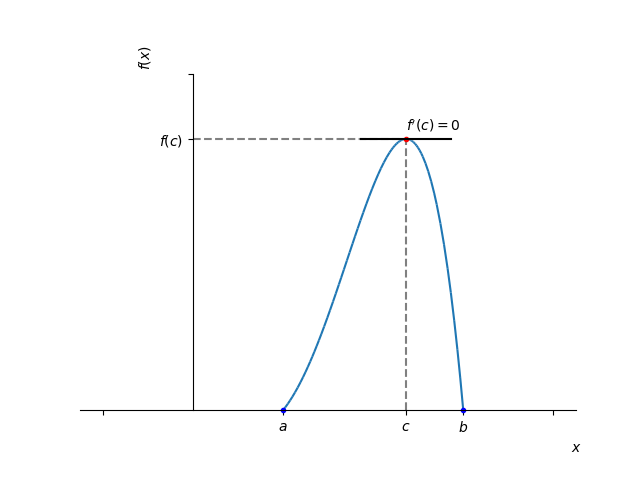
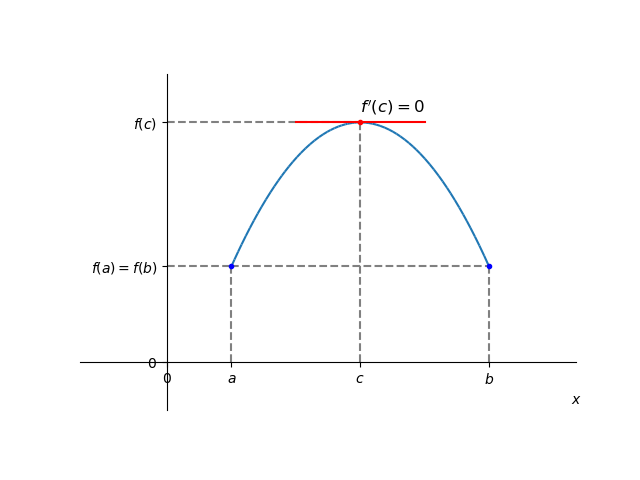
+: exercícios sobre extremos de funções; *: ajustes

diff --git a/src/CalculoI/cap_apderiv/cap_apderiv.tex b/src/CalculoI/cap_apderiv/cap_apderiv.tex
@@ -225,18 +225,18 @@ Esta é a versão da regra de L'Hôpital para indeterminações do tipo $0/0$. S
 
 \section{Extremos de funções}\label{cap_apderiv_sec_extfun}
 
-Seja $f$ uma função com domínio $D$. Dizemos que $f$ tem o valor \emph{máximo absoluto} $f(a)$ no ponto $x=a$ quando
+Seja $f$ uma função com domínio $D$. Dizemos que $f$ tem o valor \emph{máximo global}\footnote{Também chamado de máximo absoluto.} $f(a)$ no ponto $x=a$ quando
 \begin{equation}
   f(x) < f(a),
 \end{equation}
-para todo $x\in D\setminus\{a\}$. Analogamente, dizemos que $f$ tem o valor \emph{mínimo absoluto} $f(b)$ no ponto $x=b$ quando
+para todo $x\in D\setminus\{a\}$. Analogamente, dizemos que $f$ tem o valor \emph{mínimo global}\footnote{Também chamado de mínimo absoluto.} $f(b)$ no ponto $x=b$ quando
 \begin{equation}
   f(x) > f(b),
 \end{equation}
-para todo $x\in D\setminus\{b\}$. Em tais pontos, dizemos que a função têm seus valores \emph{extremos absolutos}.
+para todo $x\in D\setminus\{b\}$. Em tais pontos, dizemos que a função têm seus valores \emph{extremos globais} (ou extremos absolutos).
 
 \begin{ex}\label{ex:vmaxminabs}
-  A função $f(x) = x^2$ tem valor mínimo absoluto no ponto $x=0$ e não assume valor máximo absoluto. A função $g(x) = -x^2$ tem valor máximo absoluto no ponto $x=0$ e não assume valor mínimo absoluto. A função $h(x)=x^3$ não assume valores mínimo e máximo absolutos. Veja a Figura \ref{fig:ex_vmaxminabs}.
+  A função $f(x) = x^2$ tem valor mínimo global no ponto $x=0$ e não assume valor máximo global. A função $g(x) = -x^2$ tem valor máximo global no ponto $x=0$ e não assume valor mínimo global. A função $h(x)=x^3$ não assume valores mínimo e máximo globais. Veja a Figura \ref{fig:ex_vmaxminabs}.
 
   \begin{figure}[H]
     \centering
@@ -249,20 +249,20 @@ para todo $x\in D\setminus\{b\}$. Em tais pontos, dizemos que a função têm se
 \end{ex}
 
 \begin{teo}\normalfont{(Teorema do valor extremo)}
-  Se $f$ é uma função contínua em um intervalo fechado $[a, b]$, então $f$ assume tanto um valor máximo como um valor mínimo absoluto em $[a, b]$.
+  Se $f$ é uma função contínua em um intervalo fechado $[a, b]$, então $f$ assume tanto um valor máximo como um valor mínimo global em $[a, b]$.
 \end{teo}
 
 \begin{ex}\label{ex:fcont}
   Vejamos os seguintes casos:
   \begin{enumerate}[a)]
-  \item  A função $\pmb{f(x) = (x-1)^2+1}$ é contínua no intervalo fechado $\displaystyle \left[0, \frac{3}{2}\right]$. Assume valor mínimo absoluto $1$ no ponto $x=1$. Ainda, assume valor máximo absoluto igual a $2$ no ponto $x=0$. Veja Figura \ref{fig:ex_fcont_f}.
+  \item  A função $\pmb{f(x) = (x-1)^2+1}$ é contínua no intervalo fechado $\displaystyle \left[0, \frac{3}{2}\right]$. Assume valor mínimo global $1$ no ponto $x=1$. Ainda, assume valor máximo global igual a $2$ no ponto $x=0$. Veja Figura \ref{fig:ex_fcont_f}.
   \begin{figure}[H]
     \centering
     \includegraphics[width=0.7\textwidth]{./cap_apderiv/dados/fig_ex_fcont/fig_f}
     \caption{Esboço do gráfico de $f(x) = (x-1)^2+1$ no intervalo $\displaystyle\left[0, \frac{3}{2}\right]$. Veja o Exemplo \ref{ex:fcont} a).}
     \label{fig:ex_fcont_f}
   \end{figure}
-\item A função $\pmb{g(x) = \ln x}$ é contínua no intervalo $(0, e]$. Neste intervalo, assume valor máximo absoluto no ponto $x=e$, mas não assume valor mínimo absoluto. Veja Figura \ref{fig:ex_fcont_g}.
+\item A função $\pmb{g(x) = \ln x}$ é contínua no intervalo $(0, e]$. Neste intervalo, assume valor máximo global no ponto $x=e$, mas não assume valor mínimo global. Veja Figura \ref{fig:ex_fcont_g}.
   \begin{figure}[H]
     \centering
     \includegraphics[width=0.7\textwidth]{./cap_apderiv/dados/fig_ex_fcont/fig_g}
@@ -279,7 +279,7 @@ para todo $x\in D\setminus\{b\}$. Em tais pontos, dizemos que a função têm se
       \end{array}
 \right.
 \end{equation}
-definida no intervalo $[0, 1]$ é descontínua no ponto $x=1$. Neste intervalo, assume valor mínimo absoluto no ponto $x=0$, mas não assume valor máximo absoluto. Veja a Figura \ref{fig:ex_fcont_h}.
+definida no intervalo $[0, 1]$ é descontínua no ponto $x=1$. Neste intervalo, assume valor mínimo global no ponto $x=0$, mas não assume valor máximo global. Veja a Figura \ref{fig:ex_fcont_h}.
   \begin{figure}[H]
     \centering
     \includegraphics[width=0.7\textwidth]{./cap_apderiv/dados/fig_ex_fcont/fig_h}
@@ -310,7 +310,7 @@ Uma função $f$ tem um valor \emph{máximo local} em um ponto interior $x=a$ de
     \label{fig:ex_vmaxminloc}
   \end{figure}
   
-Na Figura \ref{fig:ex_vmaxminloc} temos o esboço de seu gráfico. Por inferência, temos que $f$ tem valores máximos locais nos pontos $x=-1$ e $x=-1/2$. No ponto $x=0$ tem um valor mínimo local. Observamos que $x=-2$, $x=2$ e $x=3$ não são pontos de extremos locais desta função. No ponto $x=-2$, $f$ tem seu valor mínimo absoluto. Ainda, $f$ não tem valor máximo absoluto.
+Na Figura \ref{fig:ex_vmaxminloc} temos o esboço de seu gráfico. Por inferência, temos que $f$ tem valores máximos locais nos pontos $x=-1$ e $x=-1/2$. No ponto $x=0$ tem um valor mínimo local. Observamos que $x=-2$, $x=2$ e $x=3$ não são pontos de extremos locais desta função. No ponto $x=-2$, $f$ tem seu valor mínimo global. Ainda, $f$ não tem valor máximo global.
 \end{ex}
 
 \begin{teo}\normalfont{(Teorema da derivada para pontos extremos locais.)}
@@ -339,10 +339,10 @@ Um ponto interior do domínio de uma função $f$ onde $f'=0$ ou $f'$ não exist
 
   No ponto $x=0$, $f'(0)$ não existe e $f$ tem valor mínimo local neste ponto. No ponto, $x=-1/2$, $f'(1/2)$ não existe e $f$ tem valor máximo local neste ponto.
 
-  Nos extremos do domínio, temos que $f$ tem valor mínimo absoluto no ponto $x=-2$, mas não tem extremo absoluto no ponto $x=3$.
+  Nos extremos do domínio, temos que $f$ tem valor mínimo global no ponto $x=-2$, mas não tem extremo global no ponto $x=3$.
 \end{ex}
 
-\subsection{Exercícios resolvidos}
+\subsection*{Exercícios resolvidos}
 
 \begin{exeresol}\label{exeresol:f_diff}
   Determine os pontos extremos da função $f(x) = (x+1)^2-1$ no intervalo $[-2,1]$.
@@ -356,7 +356,7 @@ Um ponto interior do domínio de uma função $f$ onde $f'=0$ ou $f'$ não exist
 
   \begin{figure}[H]
     \centering
-    \includegraphics[width=0.5\textwidth]{./cap_apderiv/dados/fig_exeresol_f_diff/fig_exeresol_f_diff}
+    \includegraphics[width=0.7\textwidth]{./cap_apderiv/dados/fig_exeresol_f_diff/fig_exeresol_f_diff}
     \caption{Esboço do gráfico da função $f(x) = (x+1)^2-1$ discutida no Exercício Resolvido \ref{exeresol:f_diff}.}
     \label{fig:exeresol_f_diff}
   \end{figure}
@@ -368,7 +368,7 @@ Um ponto interior do domínio de uma função $f$ onde $f'=0$ ou $f'$ não exist
     $f(x)$ & 0 & -1 & 3\\\hline
   \end{tabular}
 \end{center}
-Daí, podemos concluir que $f$ tem o valor mínimo absoluto (e local) de $f(-1)=-1$ no ponto $x=-1$ e tem valor máximo absoluto de $f(1)=3$ no ponto $x=1$.
+Daí, podemos concluir que $f$ tem o valor mínimo global (e local) de $f(-1)=-1$ no ponto $x=-1$ e tem valor máximo global de $f(1)=3$ no ponto $x=1$.
 
 \ifispython
 Podemos usar o \sympy~para computar os pontos extremos e plotar a função. Por exemplo, com os seguintes comandos\footnote{Veja a Observação \ref{obs:cap_apderiv_python}.}:
@@ -394,7 +394,7 @@ Podemos usar o \sympy~para computar os pontos extremos e plotar a função. Por 
   \begin{equation}
     3x^2=0\Rightarrow x=0
   \end{equation}
-  é o único ponto crítico de $f$. Entretanto, analisando o gráfico desta função (Figura \ref{fig:exeresol_p_infl}) vemos que $f$ não tem valor extremo local neste ponto. Assim, seus pontos extremos só podem ocorrer nos extremos do domínio $[-1, 1]$. Concluímos que $f(-1)=-1$ é o valor mínimo absoluto de $f$ e $f(1)=1$ é seu valor máximo absoluto.
+  é o único ponto crítico de $f$. Entretanto, analisando o gráfico desta função (Figura \ref{fig:exeresol_p_infl}) vemos que $f$ não tem valor extremo local neste ponto. Assim, seus pontos extremos só podem ocorrer nos extremos do domínio $[-1, 1]$. Concluímos que $f(-1)=-1$ é o valor mínimo global de $f$ e $f(1)=1$ é seu valor máximo global.
 
   \begin{figure}[H]
     \centering
@@ -404,23 +404,69 @@ Podemos usar o \sympy~para computar os pontos extremos e plotar a função. Por 
   \end{figure}
 \end{resol}
 
-\subsection{Exercícios}
+\subsection*{Exercícios}
 
-\emconstrucao
+\begin{exer}
+  Considere que uma dada função $f$ tenha o seguinte esboço de gráfico:
+
+  \begin{center}
+    \includegraphics[width=0.7\textwidth]{./cap_apderiv/dados/fig_exer_extfun/fig_exer_extfun}
+  \end{center}
+
+  Determine e classifique os pontos extremos desta função.
+\end{exer}
+\begin{resp}
+  $x=-1$ ponto de mínimo global; $x=1$ ponto de máximo local; $x=2$ ponto de mínimo local; $x=\frac{5}{2}$ ponto de máximo global.
+\end{resp}
+
+\begin{exer}
+  Dada a função $f(x)=x^2-2x+3$ restrita ao intervalo $[-1,2]$, determine:
+  \begin{enumerate}[a)]
+  \item seu(s) ponto(s) crítico(s).
+  \item seu(s) ponto(s) extremo(s) e o(s) classifique.
+  \item seu(s) valor(es) extremo(s) e o(s) classifique.
+  \end{enumerate}
+\end{exer}
+\begin{resp}
+  a)~$x=1$; b)~$x=-1$ ponto de máximo global; $x=1$ ponto de mínimo local e global; c)~$f(-1)=6$ valor máximo global; $f(1)=2$ valor mínimo local e global;
+\end{resp}
+
+\begin{exer}
+  Dada a função $f(x)=-x^2+2x+1$ restrita ao intervalo $[0,3]$, determine:
+  \begin{enumerate}[a)]
+  \item seu(s) ponto(s) crítico(s).
+  \item seu(s) ponto(s) extremo(s) e o(s) classifique.
+  \item seu(s) valor(es) extremo(s) e o(s) classifique.
+  \end{enumerate}
+\end{exer}
+\begin{resp}
+  a)~$x=1$; b)~$x=1$ ponto de máximo local e global; $x=3$ ponto de mínimo global; c)~$f(1)=2$ valor máximo local e global; $f(3)=-2$ valor mínimo global;
+\end{resp}
+
+\begin{exer}
+  Dada a função $f(x)=x^{3} - 3 x^{2} + 3 x$ restrita ao intervalo $[0, \infty)$, determine:
+  \begin{enumerate}[a)]
+  \item seu(s) ponto(s) crítico(s).
+  \item seu(s) ponto(s) extremo(s) e o(s) classifique.
+  \item seu(s) valor(es) extremo(s) e o(s) classifique.
+  \end{enumerate}
+\end{exer}
+\begin{resp}
+  a)~$x=1$; b)~$x=0$ ponto de mínimo global;c)~$f(0)=0$ valor mínimo global;
+\end{resp}
 
 \begin{exer}
   Dada a função $f(x)=x^{1/3}$ restrita ao intervalo $[-1,1]$, determine:
   \begin{enumerate}[a)]
-  \item seus pontos críticos.
-  \item seus pontos extremos e os classifique.
-  \item seus valores extremos e os classifique.
+  \item seu(s) ponto(s) crítico(s).
+  \item seu(s) ponto(s) extremo(s) e o(s) classifique.
+  \item seu(s) valor(es) extremo(s) e o(s) classifique.
   \end{enumerate}
 \end{exer}
 \begin{resp}
-  a)~$x=0$; b)~$x=-1$; $x=1$; c)~$f(-1)=-1$ valor mínimo absoluto; $f(1)=1$ valor máximo absoluto;
+  a)~$x=0$; b)~$x=-1$ ponto de mínimo global; $x=1$ ponto de máximo global; c)~$f(-1)=-1$ valor mínimo global; $f(1)=1$ valor máximo global;
 \end{resp}
 
-\emconstrucao
 
 \section{Teorema do valor médio}\label{cap_apderiv_sec_valormedio}
 
@@ -569,7 +615,7 @@ Mais precisamente, seja $c$ um ponto crítico de uma função contínua $f$ e di
   Então, do teste da primeira derivada, concluímos que $x=\frac{2-\sqrt{7}}{3}$ é ponto de máximo local e que $x=\frac{2+\sqrt{7}}{3}$ é ponto de mínimo local.
 
   \ifispython
-  Podemos usar o \verb+Sympy+ para computarmos a derivada de $f$ com o comando
+  Podemos usar o \sympy~ para computarmos a derivada de $f$ com o comando\footnote{Veja a Observação \ref{obs:cap_apderiv_python}.}
 \begin{verbatim}
 fl = diff((x - 2)*(x - 1)*(x + 1))
 \end{verbatim}

diff --git a/src/CalculoI/cap_apderiv/dados/fig_teo_Rolle/main.py b/src/CalculoI/cap_apderiv/dados/fig_teo_Rolle/main.py
@@ -5,28 +5,40 @@ from sympy import *
 init_printing()
 var('x',real=True)
 
-p = plot(-0.5*(x-1)*(x-3)*x**2,(x,1,3),show=False)
-q = plot(-1,(x,-1,4),line_color='none',show=False)
-q = plot(3,(x,-1,4),line_color='none',show=False)
+a=0.5
+b=2.5
+f = -1.5*(x-a)*(x-b)+1
+c = (a+b)/2
+
+p = plot(f,(x,a,b),show=False)
+q = plot(-0.5,(x,-0.5,3),line_color='none',show=False)
+p.extend(q)
+q = plot(3,(x,-0.5,3),line_color='none',show=False)
 p.extend(q)
 p.xlabel = '$x$'
-p.ylabel = '$f(x)$'
+p.ylabel = ''
 p.save('fig_teo_Rolle.png')
 
 fig = p._backend.fig
 ax = fig.axes[0]
-ax.set_yticks([-1,2.42404,3])
-ax.set_yticklabels(['','$f(c)$',''])
-c=2.36603
-ax.set_xticks([-1,1,c,3,4])
-ax.set_xticklabels(['','$a$','$c$','$b$',''])
-ax.plot([c,c],[0,2.42404],ls='--',color='gray')
-ax.plot([0,c],[2.42404,2.42404],ls='--',color='gray')
-ax.plot([c],[2.42404],marker='o',markersize=3,color='red')
-ax.plot([1],[0],marker='o',markersize=3,color='blue')
-ax.plot([3],[0],marker='o',markersize=3,color='blue')
-ax.plot([c-0.5,c+0.5],[2.42404,2.42404],color='black')
-ax.text(c,2.5,"$f'(c)=0$")
+ax.set_xticks([0,a,c,b])
+ax.set_xticklabels(["$0$","$a$","$c$","$b$"])
+ax.set_yticks([0,f.subs(x,a),f.subs(x,c)])
+ax.set_yticklabels(["$0$","$f(a) = f(b)$","$f(c)$"])
+ax.plot([a,a],[0,f.subs(x,a)],ls="--",color="gray")
+ax.plot([0,a],[f.subs(x,a),f.subs(x,a)],ls="--",color="gray")
+ax.plot([b,b],[0,f.subs(x,b)],ls="--",color="gray")
+ax.plot([a,b],[f.subs(x,b),f.subs(x,b)],ls="--",color="gray")
+ax.plot([a],[f.subs(x,a)],marker="o",markersize=3,color="blue")
+
+ax.text(c,f.subs(x,c)+0.1,"$f'(c)=0$",fontsize=12)
+ax.plot([c,c],[0,f.subs(x,c)],ls="--",color="gray")
+ax.plot([0,c],[f.subs(x,c),f.subs(x,c)],ls="--",color="gray")
+
+ax.plot([c-0.5,c+0.5],[f.subs(x,c),f.subs(x,c)],color="red")
+ax.plot([b],[f.subs(x,b)],marker="o",markersize=3,color="blue")
+ax.plot([c],[f.subs(x,c)],marker="o",markersize=3,color="red")
+
 fig.savefig('fig_teo_Rolle.png')
 
 

diff --git a/src/CalculoI/cap_apderiv/dados/fig_exer_extfun/main.py b/src/CalculoI/cap_apderiv/dados/fig_exer_extfun/main.py
@@ -1,0 +1,42 @@
+#!/bin/python3
+
+import numpy as np
+from sympy import *
+init_printing()
+var('x',real=True)
+
+f = x**5/5 - 5*x**3/3 + 4*x
+
+p = plot(f,(x,-2,2.5),line_color='blue',show=False)
+q = plot(4,(x,-2,3),line_color='none',show=False)
+p.extend(q)
+q = plot(-3,(x,-2,3),line_color='none',show=False)
+p.extend(q)
+p.xlabel = '$x$'
+p.ylabel = '$y$'
+p.save('fig_exer_extfun.png')
+
+fig = p._backend.fig
+ax = fig.axes[0]
+ax.grid('on')
+ax.set_xticks([-2,-1,0,1,2,2.5,3])
+ax.set_xticklabels(["$-2$","$-1$","$0$","$1$","$2$","$\\frac{5}{2}$","$3$"])
+ax.plot([-2],[f.subs(x,-2)],marker="o",markersize=4,
+        markeredgecolor="blue",markerfacecolor="blue")
+ax.plot([-1],[f.subs(x,-1)],marker="o",markersize=4,
+        markeredgecolor="blue",markerfacecolor="blue")
+ax.plot([0],[f.subs(x,0)],marker="o",markersize=4,
+        markeredgecolor="blue",markerfacecolor="blue")
+ax.plot([1],[f.subs(x,1)],marker="o",markersize=4,
+        markeredgecolor="blue",markerfacecolor="blue")
+ax.plot([2],[f.subs(x,2)],marker="o",markersize=4,
+        markeredgecolor="blue",markerfacecolor="blue")
+ax.plot([2.5],[f.subs(x,2.5)],marker="o",markersize=4,
+        markeredgecolor="blue",markerfacecolor="blue")
+fig.savefig('fig_exer_extfun.png')
+
+
+
+
+
+

diff --git a/src/CalculoI/cap_apderiv/dados/fig_exeresol_p_infl/main.py b/src/CalculoI/cap_apderiv/dados/fig_exeresol_p_infl/main.py
@@ -15,9 +15,9 @@ p.save('fig_exeresol_p_infl.png')
 fig = p._backend.fig
 ax = fig.axes[0]
 ax.grid('on')
-ax.plot([-1],[-1],marker='o',color='blue')
+ax.plot([-1],[-1],marker='o',color='red')
 ax.plot([0],[0],marker='o',color='blue')
-ax.plot([1],[1],marker='o',color='blue')
+ax.plot([1],[1],marker='o',color='red')
 fig.savefig('fig_exeresol_p_infl.png')
 
 

diff --git a/src/CalculoI/cap_apderiv/dados/fig_exeresol_f_diff/main.py b/src/CalculoI/cap_apderiv/dados/fig_exeresol_f_diff/main.py
@@ -16,8 +16,8 @@ fig = p._backend.fig
 ax = fig.axes[0]
 ax.grid('on')
 ax.plot([-2],[0],marker='o',color='blue')
-ax.plot([-1],[-1],marker='o',color='blue')
-ax.plot([1],[3],marker='o',color='blue')
+ax.plot([-1],[-1],marker='o',color='red')
+ax.plot([1],[3],marker='o',color='red')
 fig.savefig('fig_exeresol_f_diff.png')
 
 
